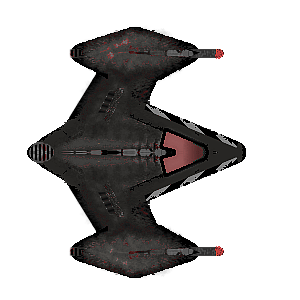
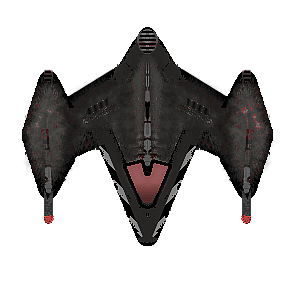
start converting game to top down shooter

diff --git a/README.md b/README.md
@@ -1,5 +1,5 @@
 # Star Phase
-A side-scrolling space shooter made with Lua and Love2D
+A top down space shooter made with Lua and Love2D
 This is still an early work in progress, so many bugs / changes will come.
 
 ### Running the game
@@ -20,6 +20,5 @@ See `binds.lua` for game controls
 GNU GPLv3 / CC-BY-SA
 
 # Previews
-![screenshot at 2017-01-25 02-01-25](https://cloud.githubusercontent.com/assets/1535179/22275120/66bf6f34-e2a2-11e6-8bf7-9afc890da812.png)
+![screenshot_2017-03-01_04-18-19](https://cloud.githubusercontent.com/assets/1535179/23445813/2d8baa48-fe36-11e6-9f32-912f15718fdc.png) ![screenshot_2017-03-01_04-17-35](https://cloud.githubusercontent.com/assets/1535179/23445816/2f7cb59a-fe36-11e6-8167-b28713ea1edd.png)
 
-![screenshot at 2017-01-25 02-02-15](https://cloud.githubusercontent.com/assets/1535179/22275122/689554ae-e2a2-11e6-855f-28c800b47bba.png)
